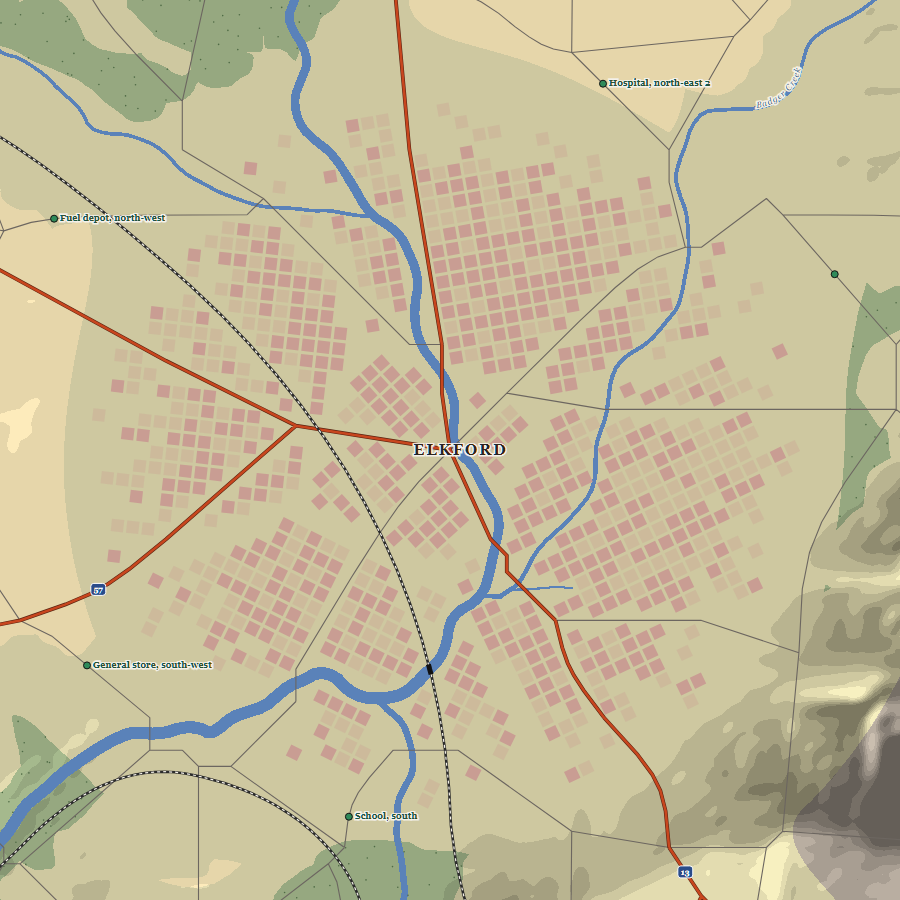
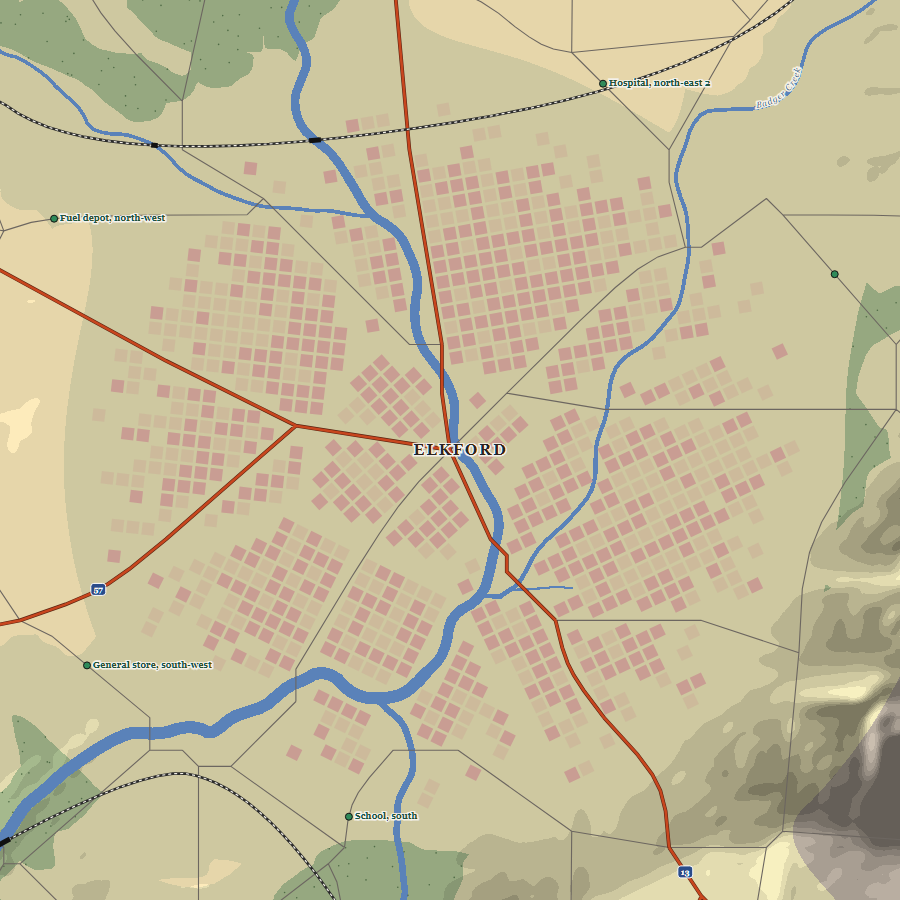
Clear grid blocks under collapsed spans, keep rails apart and off the rim, and fix the review's notes
Broken highway spans now turn blocks into street as roads and rails do. Rails cost six times as much near an earlier line and four times past 0.88 of the radius, a coarse cell is open only when its land cells' centres are clear, and a line that doubles back is redrawn. The inert test also compares the land and every water field, and the record's numbers and save note are brought up to date.

diff --git a/src/renderer/game/map/RailLines.ts b/src/renderer/game/map/RailLines.ts
@@ -1,7 +1,7 @@
 import type { Rng } from '../core/Rng';
-import { Vector, chaikin, polylineLength, unitVector } from './Geometry';
+import { Vector, chaikin, pointAlong, polylineLength, unitVector } from './Geometry';
 import { RELIEF } from './Land';
-import { LandGrid, cellAt } from './LandGrid';
+import { LandGrid, cellAt, cellCentre } from './LandGrid';
 import { NodeHeap } from './NodeHeap';
 import { simplify } from './Rivers';
 import type { RoadBridge } from './RoadNetwork';
@@ -25,15 +25,18 @@ export interface RailLine {
 
 /**
  * - The search runs on a grid `coarse` land cells to one, inside `inset`
- *   coarse cells of the rim.
+ *   coarse cells of the rim. A cell is open where nothing a rail can't
+ *   cross stands at its centre or at the centres of the land cells under it.
  * - A move costs its length times one plus `grade` times its grade squared,
  *   times one plus `valley` times how far it stands above the low ground
  *   (the water's lowland, 1 on a valley floor), plus `ranges` times the
  *   range mask, plus `bridge` world units for each end on a river, so a
  *   line crosses a river rather than running along it. A diagonal move
- *   needs both cells beside it open. Within
- *   `apart` coarse cells of an earlier line, the move costs `apartCost`
- *   times as much, so lines keep apart but can still cross.
+ *   needs both cells beside it open. Within `apart` coarse cells of an
+ *   earlier line, the move costs `apartCost` times as much, so lines keep
+ *   apart, even down one valley, but can still cross. Past `rim.band` of
+ *   the radius it costs `rim.cost` times more, so a line crosses the rim
+ *   at its ends rather than running round it.
  * - Each line's ends are rim points, the second `across` degrees round from
  *   the first, each the lowest of the bearings `spread` degrees either side
  *   in `step`-degree steps; the lines' first ends are spread evenly round
@@ -43,6 +46,10 @@ export interface RailLine {
  *   every `sample` world units) or puts a deck past `longestDeck` world
  *   units over a river, the next tolerance down is tried, then the cells
  *   themselves. Bridges are merged across gaps under `deckGap`.
+ * - A line whose heading turns past `hairpin.dot` (the cosine between its
+ *   direction at two points up to `hairpin.window` world units apart, -0.85
+ *   being about 150 degrees) is dropped, and its second end drawn again, up to `tries`
+ *   times.
  */
 export const RAIL_LINES = {
 	coarse: 2,
@@ -51,8 +58,11 @@ export const RAIL_LINES = {
 	valley: 1.5,
 	ranges: 4,
 	bridge: 40,
-	apart: 5,
-	apartCost: 2,
+	apart: 6,
+	apartCost: 6,
+	rim: { band: 0.88, cost: 3 },
+	hairpin: { window: 200, dot: -0.85, step: 20 },
+	tries: 3,
 	across: { least: 140, most: 220 },
 	spread: 25,
 	step: 2.5,
@@ -99,9 +109,13 @@ export function railLines({ ground, grid, mountains, lowland, area, threshold, c
 	for (let index = 0; index < count; index += 1) {
 		const own = rng.fork('rail', index);
 		const first = spin + 180 * index / count;
-		const second = first + RAIL_LINES.across.least + (RAIL_LINES.across.most - RAIL_LINES.across.least) * own.float();
-		const line = field.lay(first, second);
-		if (line !== null) lines.push(line);
+		for (let attempt = 0; attempt < RAIL_LINES.tries; attempt += 1) {
+			const second = first + RAIL_LINES.across.least + (RAIL_LINES.across.most - RAIL_LINES.across.least) * own.float();
+			const line = field.lay(first, second);
+			if (line === null) continue;
+			lines.push(line);
+			break;
+		}
 	}
 	return lines;
 }
@@ -120,8 +134,10 @@ class RailField {
 	private readonly above: Float64Array;
 	private readonly river: Uint8Array;
 	private readonly open: Uint8Array;
-	/** Per coarse cell, how many lines run within `apart` cells of it. */
+	/** Per coarse cell, 1 within `apart` cells of a line laid already. */
 	private readonly crowded: Uint8Array;
+	/** Per coarse cell, 1 past `rim.band` of the radius. */
+	private readonly outer: Uint8Array;
 
 	constructor({ ground, grid, mountains, lowland, area, threshold }: Omit<RailLineOptions, 'count' | 'rng'>) {
 		this.ground = ground;
@@ -135,6 +151,8 @@ class RailField {
 		this.river = new Uint8Array(cells);
 		this.open = new Uint8Array(cells);
 		this.crowded = new Uint8Array(cells);
+		this.outer = new Uint8Array(cells);
+		const band = RAIL_LINES.rim.band * ground.radius;
 		const reach = ground.radius - RAIL_LINES.inset * this.cellSize;
 		for (let row = 0; row < this.size; row += 1) {
 			const y = this.centre(row);
@@ -148,11 +166,18 @@ class RailField {
 				const obstacle = ground.obstacle(x, y);
 				const land = row * RAIL_LINES.coarse * grid.size + column * RAIL_LINES.coarse;
 				let river = 0;
+				let clear = obstacle === null || obstacle === 'river';
 				for (let down = 0; down < RAIL_LINES.coarse; down += 1) {
-					for (let across = 0; across < RAIL_LINES.coarse; across += 1) if (area[land + down * grid.size + across] >= threshold) river = 1;
+					for (let across = 0; across < RAIL_LINES.coarse; across += 1) {
+						const under = land + down * grid.size + across;
+						if (area[under] >= threshold) river = 1;
+						const blocked = clear ? ground.obstacle(cellCentre(grid, under % grid.size), cellCentre(grid, floor(under / grid.size))) : null;
+						if (blocked !== null && blocked !== 'river') clear = false;
+					}
 				}
 				this.river[cell] = river;
-				this.open[cell] = x * x + y * y <= reach * reach && (obstacle === null || obstacle === 'river') ? 1 : 0;
+				this.open[cell] = x * x + y * y <= reach * reach && clear ? 1 : 0;
+				this.outer[cell] = x * x + y * y > band * band ? 1 : 0;
 			}
 		}
 	}
@@ -168,7 +193,7 @@ class RailField {
 		for (const cell of cells) path.push(this.centre(cell % this.size), this.centre(floor(cell / this.size)));
 		path.push(end.rimX, end.rimY);
 		const points = this.smooth(path);
-		if (points === null) return null;
+		if (points === null || hairpin(points)) return null;
 		this.mark(cells);
 		return Object.freeze({ points: Object.freeze(points), length: polylineLength(points), bridges: Object.freeze(this.bridges(points)) });
 	}
@@ -256,6 +281,7 @@ class RailField {
 		let step = length * (1 + RAIL_LINES.grade * grade * grade) * (1 + RAIL_LINES.valley * above) + RAIL_LINES.ranges * mask * length;
 		step += RAIL_LINES.bridge * (this.river[from] + this.river[to]);
 		if (this.crowded[from] > 0 || this.crowded[to] > 0) step *= RAIL_LINES.apartCost;
+		if (this.outer[from] > 0 || this.outer[to] > 0) step *= 1 + RAIL_LINES.rim.cost;
 		return step;
 	}
 
@@ -328,4 +354,30 @@ class RailField {
 			}
 		}
 	}
+}
+
+/** Whether a line doubles back: its direction, read every `hairpin.step` world units, turns past `hairpin.dot` within `hairpin.window`. */
+function hairpin(points: readonly number[]): boolean {
+	const { window, dot, step } = RAIL_LINES.hairpin;
+	const length = polylineLength(points);
+	const at = { x: 0, y: 0 };
+	const headings: number[] = [];
+	let lastX = points[0];
+	let lastY = points[1];
+	for (let along = step; along <= length; along += step) {
+		pointAlong(points, along, at);
+		const dx = at.x - lastX;
+		const dy = at.y - lastY;
+		const norm = sqrt(dx * dx + dy * dy);
+		headings.push(norm > 0 ? dx / norm : 0, norm > 0 ? dy / norm : 0);
+		lastX = at.x;
+		lastY = at.y;
+	}
+	const reach = floor(window / step);
+	for (let index = 0; index < headings.length; index += 2) {
+		for (let ahead = 1; ahead <= reach && index + 2 * ahead < headings.length; ahead += 1) {
+			if (headings[index] * headings[index + 2 * ahead] + headings[index + 1] * headings[index + 2 * ahead + 1] < dot) return true;
+		}
+	}
+	return false;
 }

diff --git a/src/renderer/game/map/StreetGrids.ts b/src/renderer/game/map/StreetGrids.ts
@@ -39,10 +39,10 @@ export interface StreetDistrict {
  * - `survival`: a block's chance of standing at the ruin's middle, from
  *   `least` at `streetGrids` 0 to `most` at 1, falling by `fall` times the
  *   square of its share of the way to the ruin's edge.
- * - `edge`: the ruin's edge, drawn per block between 1 less and 1 more than
- *   half `edge` of the ruin's radius, so it's ragged.
- * - `districts`: the metro's, `base` plus one per `per` world units of its
- *   radius, at most `most`; the first at the middle within `centre` of the
+ * - `edge`: the ruin's edge, drawn per block from 1 - `edge` / 2 to
+ *   1 + `edge` / 2 times the ruin's radius, so it's ragged.
+ * - `districts`: the metro's, `base` plus one per `per` world units of the
+ *   radius its grids cover (less below the default dressing), at most `most`; the first at the middle within `centre` of the
  *   radius, the rest `inner` to `outer` of it out, evenly round and jittered
  *   by up to `jitter` of the gap between them. Their grids' angles are
  *   spread evenly over a quarter turn from a drawn one, in a shuffled order,
@@ -94,11 +94,12 @@ export function streetGrids({ places, lines, ground, built, cover, rng }: Street
 		...places.towns.map(({ id, x, y, radius }): Ruin => ({ place: id, kind: 'town', x, y, radius: radius * cover })),
 		...places.villages.map(({ id, x, y, radius }): Ruin => ({ place: id, kind: 'village', x, y, radius: radius * cover })),
 	];
+	const boxes = lines.map(({ points }) => ({ points, box: boundsOf(points) }));
 	const districts: StreetDistrict[] = [];
 	for (const ruin of ruins) {
 		const own = rng.fork('ruin', ruin.place);
 		const seeds = ruin.kind === 'metro' ? metroSeeds(ruin, own) : [{ x: ruin.x, y: ruin.y, angle: own.float() * 90 }];
-		const near = lines.filter(({ points }) => reaches(points, ruin));
+		const near = boxes.filter(({ box }) => reaches(box, ruin));
 		seeds.forEach((seed, index) => {
 			const district = layDistrict({ ruin, seeds, index, spacing, survival, near, ground, rng: own.fork('district', index) });
 			if (district.blocks.length + district.rubble.length > 0) districts.push(district);
@@ -153,9 +154,20 @@ function metroSeeds(ruin: Ruin, rng: Rng): DistrictSeed[] {
 	return seeds;
 }
 
-/** Whether a road's polyline might come within the ruin's reach: its bounding box overlaps the reach's. */
-function reaches(points: readonly number[], { x, y, radius }: Ruin): boolean {
+interface Bounds {
+	readonly left: number;
+	readonly right: number;
+	readonly bottom: number;
+	readonly top: number;
+}
+
+/** Whether a line might come within the ruin's reach: its bounding box overlaps the reach's. */
+function reaches({ left, right, bottom, top }: Bounds, { x, y, radius }: Ruin): boolean {
 	const reach = radius * (1 + STREET_GRIDS.edge);
+	return left < x + reach && right > x - reach && bottom < y + reach && top > y - reach;
+}
+
+function boundsOf(points: readonly number[]): Bounds {
 	let left = Infinity;
 	let right = -Infinity;
 	let bottom = Infinity;
@@ -166,7 +178,7 @@ function reaches(points: readonly number[], { x, y, radius }: Ruin): boolean {
 		if (points[index + 1] < bottom) bottom = points[index + 1];
 		if (points[index + 1] > top) top = points[index + 1];
 	}
-	return left < x + reach && right > x - reach && bottom < y + reach && top > y - reach;
+	return { left, right, bottom, top };
 }
 
 /**

diff --git a/src/renderer/game/map/Dressing.test.ts b/src/renderer/game/map/Dressing.test.ts
@@ -21,6 +21,12 @@ function gameplayOf(map: AreaMapGeneration): unknown {
 	}));
 }
 
+/** The land and its water as the grid stages left them: the eroded surface, the badlands, and every field of the water. */
+function landOf(map: AreaMapGeneration): unknown {
+	const { terrain, water } = map.products;
+	return { surface: terrain.surface, badlands: terrain.badlandsCells, water: water.surface };
+}
+
 /** The dressing again on a map's own products, on its own stream, for other dressing params. */
 function redress(map: AreaMapGeneration, params: Partial<MapParams>): Dressing {
 	return DRESSING_STAGE.run({ input: { ...map.params, ...params }, products: map.products, rng: new Rng({ seed: map.streams.dressing }) });
@@ -51,6 +57,7 @@ describe('the dressing', () => {
 			const bare = generateAreaMap({ params: paramsFor({ ...set, dressing: 0 }) });
 			const full = generateAreaMap({ params: paramsFor({ ...set, dressing: 1 }) });
 			expect(gameplayOf(bare)).toEqual(gameplayOf(full));
+			expect(landOf(bare)).toEqual(landOf(full));
 			const none = bare.products.dressing;
 			expect([none.districts, none.rails, none.hatches, Array.from(none.stipple)]).toEqual([[], [], [], []]);
 			none.labels.forEach(({ kind }) => expect(GAMEPLAY_LABELS).toContain(kind));
@@ -91,7 +98,7 @@ describe('the dressing', () => {
 			});
 		});
 
-		it('stand no block on water, a crater, or a cliff, nor under a road or a rail', () => {
+		it('stand no block on water, a crater, or a cliff, nor under a road, a collapsed span, or a rail', () => {
 			const wrong: string[] = [];
 			for (const { x, y, ux, uy, spacing, blocks, rubble, place } of dressing.districts) {
 				const kept = new Set<string>();
@@ -104,7 +111,7 @@ describe('the dressing', () => {
 						reach = Math.max(reach, Math.hypot(centres[index] - x, centres[index + 1] - y) + spacing);
 					}
 				}
-				for (const { points } of [...roads.network.stretches, ...dressing.rails]) {
+				for (const { points } of [...roads.network.stretches, ...roads.network.broken, ...dressing.rails]) {
 					for (let index = 0; index + 3 < points.length; index += 2) {
 						const length = Math.hypot(points[index + 2] - points[index], points[index + 3] - points[index + 1]);
 						if (Math.hypot(points[index] - x, points[index + 1] - y) > reach + length) continue;

diff --git a/src/renderer/game/map/GeneratorVersion.ts b/src/renderer/game/map/GeneratorVersion.ts
@@ -1,14 +1,15 @@
 /**
  * The area map generator version a campaign records with its map. 1 was the
- * stand-in campaigns were founded on before the generator existed. Adding,
- * removing, or renaming a gameplay stage in `areaMapPipeline`
- * (AreaMapPipeline.ts) bumps it, since a save names the stages its attempts
- * belong to (a test pins the list to it), and so may any change that makes
- * another gameplay map from the same seed, params, and attempts. An inert
- * stage, the dressing, never does: a replay runs it on its first attempt
- * where a save has none, and what it draws isn't play. The campaign store reads a save
- * recorded at another version as outdated, the way it reads one of another
- * save format version (map-pipeline-worker.md, Making a saved map again).
+ * stand-in campaigns were founded on before the generator existed.
+ * Adding, removing, or renaming a gameplay stage in `areaMapPipeline`
+ * (AreaMapPipeline.ts) bumps it, since a save names the stages its
+ * attempts belong to (a test pins the list to it), and so may any change
+ * that makes another gameplay map from the same seed, params, and
+ * attempts. An inert stage, the dressing, never does: a replay runs it on
+ * its first attempt where a save has none, and what it draws isn't play.
+ * The campaign store reads a save recorded at another version as outdated,
+ * the way it reads one of another save format version
+ * (map-pipeline-worker.md, Making a saved map again).
  *
  * A module of its own, so the store reads it without loading the pipeline.
  */

diff --git a/src/renderer/game/map/Dressing.ts b/src/renderer/game/map/Dressing.ts
@@ -111,8 +111,8 @@ export function generateDressing({ params, water, hazards, places, network, pois
 		ground: terrain, grid: terrain.surface.grid, mountains: terrain.surface.mountains, lowland: water.surface.lowland, area: water.surface.area, threshold: water.surface.threshold,
 		count: round(params.railLines * thinned), rng: rng.fork('rails'),
 	});
-	// The rails run through the grids as the roads do, so their blocks are street too.
-	const lines = [...network.stretches, ...rails];
+	// Roads, collapsed spans, and rails all run through the grids, so their blocks are street.
+	const lines = [...network.stretches, ...network.broken, ...rails];
 	const ground = { obstacle: (x: number, y: number) => terrain.obstacle(x, y), nearRiver: (x: number, y: number, reach: number) => water.nearRiver(x, y, reach) };
 	return Object.freeze({
 		districts: Object.freeze(streetGrids({ places, lines, ground, built: params.streetGrids, cover: thinned, rng: rng.fork('grids') })),

diff --git a/src/renderer/game/map/MapLabels.ts b/src/renderer/game/map/MapLabels.ts
@@ -331,12 +331,15 @@ function namedRanges({ radius, land }: MapLabelOptions): FoundRange[] {
 			sumXY += x * y;
 			sumYY += y * y;
 			if (elevation[cell] > peak) peak = elevation[cell];
-			for (const next of [cell - 1, cell + 1, cell - size, cell + size]) {
-				if (next < 0 || next >= size * size || (next === cell - 1 && column === 0) || (next === cell + 1 && column === size - 1)) continue;
-				if (seen[next] === 1 || !inRange(next)) continue;
+			const visit = (next: number): void => {
+				if (seen[next] === 1 || !inRange(next)) return;
 				seen[next] = 1;
 				stack.push(next);
-			}
+			};
+			if (column > 0) visit(cell - 1);
+			if (column < size - 1) visit(cell + 1);
+			if (row > 0) visit(cell - size);
+			if (row < size - 1) visit(cell + size);
 		}
 		if (count < LABELS.ranges.named) continue;
 		const x = sumX / count;

diff --git a/src/renderer/game/map/worker/mapGenerationProtocol.ts b/src/renderer/game/map/worker/mapGenerationProtocol.ts
@@ -109,8 +109,8 @@ export function unpackRoadNetwork({ nodes, stretches, broken, passes, points, of
 
 /**
  * The map as plain data, and the buffers to transfer with it: the network's
- * two, the land's seven, the badlands, the water's ten, and the dressing's. Transferring
- * detaches those arrays from the terrain and water that were encoded, so
+ * two, the land's seven, the badlands, the water's ten, and the dressing's.
+ * Transferring detaches those arrays from the map that was encoded, so
  * encode once nothing reads them again; the worker does, as its last act
  * before it's terminated.
  */

diff --git a/docs/AI_TECHNICAL_DECISIONS/dressing.md b/docs/AI_TECHNICAL_DECISIONS/dressing.md
@@ -53,22 +53,25 @@ All world units, the compound at the origin, frozen. A district's blocks are squ
 
 ## Street grids
 
-Each town and village gets one grid at a drawn rotation, centred on the place; the metro gets several districts. Every block's centre runs out to the ruin's radius, with an edge drawn per block between 0.85 and 1.15 of it so it's ragged. A block is kept only where its centre and corners are clear of water, craters, and cliffs, no river's water lies within half a block of its centre, and no road or rail runs through it: each segment is walked block by block (Amanatides and Woo), so a line that clips a corner still makes the block street. A kept block stands with the survival odds, or is rubble.
+Each town and village gets one grid at a drawn rotation, centred on the place; the metro gets several districts. Every block's centre runs out to the ruin's radius, with an edge drawn per block between 0.85 and 1.15 of it so it's ragged. A block is kept only where its centre and corners are clear of water, craters, and cliffs, no river's water lies within half a block of its centre, and no road, collapsed highway span, or rail runs through it: each segment is walked block by block (Amanatides and Woo), so a line that clips a corner still makes the block street. The rails are laid first for that. A kept block stands with the survival odds, or is rubble.
 
 - Spacing 14 world units at `streetGrids` 0 to 8 at 1, 9.8 at the default 0.7.
 - Survival 0.3 at `streetGrids` 0 to 0.9 at 1, times one less 0.6 of the square of the block's share of the way to the edge.
-- Metro districts: 2 plus one per 50 units of the metro's radius, at most 7: 5 at the default metro of 150. The first sits within 0.15 of the radius of the middle, the rest 0.45 to 0.8 out, evenly round and jittered by a quarter of the gap. A block corner belongs to the district whose seed is nearest by 2 units or more, so neighbouring grids stop short of the line between them and their streets meet along it, the old district line.
+- Metro districts: 2 plus one per 50 units of the radius the grids cover, at most 7: 5 at the default metro of 150 and the default dressing, fewer below it. The first sits within 0.15 of the radius of the middle, the rest 0.45 to 0.8 out, evenly round and jittered by a quarter of the gap. A block corner belongs to the district whose seed is nearest by 2 units or more, so neighbouring grids stop short of the line between them and their streets meet along it, the old district line.
 - District angles: spread evenly over a quarter turn from a drawn angle, in a shuffled order, each jittered by a quarter step, so any two differ by at least half a step (9 degrees for five). A first cut drew each angle and redrew within 15 degrees of another; five districts can't all keep 15 degrees apart in a quarter turn, and two came out 0.2 degrees apart.
 
-Rust Belt 11 at radius 1000: 38 districts, 886 blocks standing and 729 rubble.
+Rust Belt 11 at radius 1000: 38 districts, 865 blocks standing and 710 rubble.
 
 ## Rail lines
 
 `railLines` lays `railLines` lines, fewer where the land leaves no way across, each from the rim to the rim. It searches a grid two land cells to one (about 19 units a cell) by A*:
 
+- A coarse cell is open where nothing a rail can't cross (a lake, a crater, a cliff) stands at its centre or at the centres of the four land cells under it, so a step between two open cells seldom clips one.
 - A move costs its length times one plus 400 times its grade squared, times one plus 1.5 times how far it stands above the low ground (the water's lowland, 1 on a valley floor), plus 4 times the range mask times its length, plus 40 units for each end on a river cell, any land cell of the four under it carrying the stream threshold's drainage. Lakes, craters, and cliffs are closed, and a diagonal needs both cells beside it open. So lines take valley floors and gentle grades, and cross a river rather than running along it; a first cut, charging 6 for a river cell at its centre only, ran a line down the river with a 60-unit "bridge".
 - Line k's first end is at a bearing spread evenly round half the rim from a drawn one, the second 140 to 220 degrees round from it; each end is the lowest open cell just inside the rim within 25 degrees of its bearing, the line running on to the rim beyond it.
-- A line keeps 5 cells off an earlier one by costing twice as much there; it can still cross.
+- A line keeps 6 cells off an earlier one by costing six times as much there; it can still cross. At twice, QA found two lines braiding down one valley on Rust Belt 11 (486 units within 30 of each other).
+- Past 0.88 of the radius a move costs four times as much, so a line crosses the rim at its ends rather than running round it; without it, High Desert 3's line ran 1,135 of its 2,997 units along the rim.
+- A line whose direction turns more than about 150 degrees within 200 units (the cosine between two headings read 20 units apart under -0.85) is a hairpin: it's dropped and its second end drawn again, up to three tries.
 - The cells are simplified by Douglas-Peucker at 2 cells and cut by Chaikin four times. Where that clips a lake, crater, or cliff (sampled every unit) or lays a deck over 30 units, tolerances of 1 and 0.5 cells are tried, then the cells themselves.
 - Bridges are where the line's samples fall in river water, merged across gaps of 2 units or less.
 
@@ -122,14 +125,14 @@ Within a kind, a label gains under 1 by size: a town's or village's ruins, a lak
 
 | Radius | Dressing, ms median (slowest) | Stops | Terrain | Roads |
 | --- | --- | --- | --- | --- |
-| 1000 | 25 (44) | 3 | 204 | 252 |
-| 1200 | 31 (46) | 3 | 301 | 329 |
+| 1000 | 26 (39) | 2 | 160 | 169 |
+| 1200 | 33 (42) | 2 | 228 | 231 |
 
-The graph stages' budget is 200 ms on a mid-range laptop; the route tree, POIs, stops, and dressing come to about 30 ms here at radius 1000 and 36 at 1200. The rails are the largest share, their coarse grid and searches; a first cut that sampled the land between every pair of cells a move joined took 47 ms for two lines on its own. One map's first run in a fresh process, as `dressing` reports, takes about twice the bench's median: cold code, which a fresh worker also starts with.
+The graph stages' budget is 200 ms on a mid-range laptop; the route tree, POIs, stops, and dressing come to about 30 ms here at radius 1000 and 37 at 1200. The rails are the largest share, their coarse grid and searches; a first cut that sampled the land between every pair of cells a move joined took 47 ms for two lines on its own. One map's first run in a fresh process, as `dressing` reports, takes about twice the bench's median: cold code, which a fresh worker also starts with.
 
 ## Testing
 
-`Dressing.test.ts`: the stage runs last, inert, on its own stream; the same seed and params make the same dressing; generating with `dressing` 0 and 1 makes the same gameplay map, every gameplay product, attempt, and stream, on two seeds; running the dressing again leaves every product it read as it was, roads above all; no block stands on water, a crater, a cliff, or under a road or rail; rails run rim to rim, clear of lakes, craters, and cliffs, a bridge wherever they cross river water; hatching fades to its level at the outer edge; stipple lands only on mire; labels come highest first and name every town, village, POI, stronghold, and highway; features are named no two alike and the same at any dressing. `MapPipeline.test.ts` holds the inert stage's rules and its replay; `CampaignMaps.test.ts` loads a save whose attempts name no dressing and makes the same map.
+`Dressing.test.ts`: the stage runs last, inert, on its own stream; the same seed and params make the same dressing; generating with `dressing` 0 and 1 makes the same gameplay map, every gameplay product, the land and every field of its water, attempt, and stream, on two seeds; running the dressing again leaves every product it read as it was, roads above all; no block stands on water, a crater, a cliff, or under a road, a collapsed span, or a rail; rails run rim to rim, clear of lakes, craters, and cliffs, a bridge wherever they cross river water; hatching fades to its level at the outer edge; stipple lands only on mire; labels come highest first and name every town, village, POI, stronghold, and highway; features are named no two alike and the same at any dressing. `MapPipeline.test.ts` holds the inert stage's rules and its replay; `CampaignMaps.test.ts` loads a save whose attempts name no dressing and makes the same map.
 
 ## Provisional calls
 
@@ -138,7 +141,7 @@ Calls the spec left to the build, made the simplest way consistent with it, for 
 1. The dressing is a pipeline stage marked inert: it retries only itself, nothing gameplay follows it, and a replay without its attempt runs its first, so saves made before it load and no version bump is needed for it.
 2. Street grids: spacing 14 to 8 units by `streetGrids`; survival 0.3 to 0.9 by `streetGrids`, falling by 0.6 of the squared share out; a ragged edge 0.15 either side of the ruin's radius; no block on water, a crater, a cliff, or under a road or rail.
 3. The metro is 2 plus one district per 50 units of its radius, at most 7 (5 at the default), angles spread evenly over a quarter turn and jittered a quarter step; districts stop 2 units short of the line between them.
-4. Rails: grade weight 400 on the grade squared, 1.5 for standing above the low ground, 4 for range country, 40 a river cell, twice the cost within 5 cells of an earlier line; ends 140 to 220 degrees apart round the rim, each at the lowest ground within 25 degrees; Douglas-Peucker at 2, 1, then 0.5 coarse cells and four Chaikin passes; no deck over 30 units.
+4. Rails: grade weight 400 on the grade squared, 1.5 for standing above the low ground, 4 for range country, 40 a river cell, six times the cost within 6 cells of an earlier line, four times past 0.88 of the radius; a line turning more than about 150 degrees within 200 units redrawn, up to three tries; ends 140 to 220 degrees apart round the rim, each at the lowest ground within 25 degrees; Douglas-Peucker at 2, 1, then 0.5 coarse cells and four Chaikin passes; no deck over 30 units.
 5. Hatching to where a plume falls to 0.15 contamination, 8 units between lines at 45 degrees, turned up to 15 either way; stipple a dot to a 12-unit cell.
 6. `dressing` thins grids and rails below its default and keeps them to their parameters above it; hatching, stipple, and feature labels scale with it on up; at 0, only the labels of what play uses are left.
 7. Label priorities as tabled: metro 100, strongholds 95, POIs 90, towns 80, shields 70, ranges 65, lakes and reservoirs 60, rivers 55, villages 50, passes 40, plus under 1 by size within a kind.
@@ -149,7 +152,7 @@ Calls the spec left to the build, made the simplest way consistent with it, for 
 
 ## Consequences
 
-- Every map has a dressing, made in the worker with the rest and made again on load; saves don't change.
+- Every map has a dressing, made in the worker with the rest and made again on load. Saves made before it load as they did. New saves record `mapAttempts.stages.dressing`, which a build from before the dressing refuses as no stage of its pipeline, so a rollback sharing storage keys can't load them.
 - `AreaMapProducts` and `AreaMapTransfer` gain `dressing`; the founding screen's progress line names the stage ("dressing (9 of 9)").
 - `MapStage.inert` and `MapPipeline.inertStageNames` are new; an inert stage is the only kind a save may leave out.
 - Route numbers come from the dressing, so a route name that uses its highway's shield reads `dressing.routeNumbers`.
